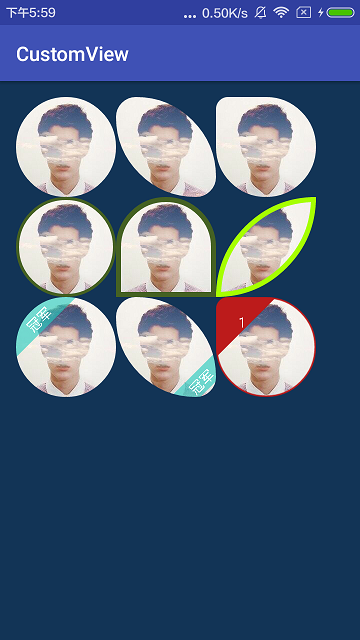
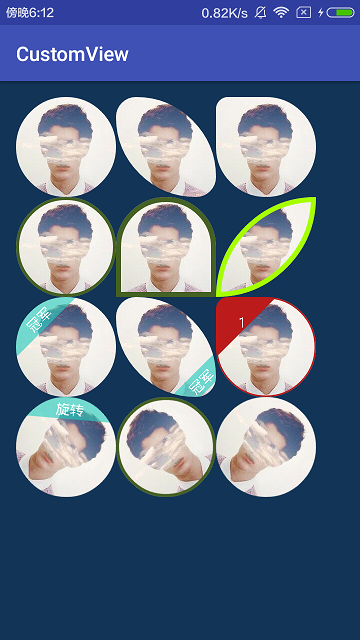
add RotateView

diff --git a/app/src/main/java/com/ctao/customview/widget/RoundedImageView.java b/app/src/main/java/com/ctao/customview/widget/RoundedImageView.java
@@ -18,39 +18,38 @@ import com.ctao.customview.R;
 import com.ctao.customview.utils.BitmapUtils;
 import com.ctao.customview.utils.PathFactory;
 
-/**
- * Created by A Miracle on 2016/9/29.
- */
-public class CustomImageView extends ImageView {
+public class RoundedImageView extends ImageView {
 
-	protected static final String TAG = CustomImageView.class.getSimpleName();
+	protected static final String TAG = RoundedImageView.class.getSimpleName();
 
+	protected PathFactory mPathFactory;
+	
 	private float[] mRadius; // [LeftTop, RightTop, RightBottom, LeftBottom]
 	private Paint mBitmapPaint;
-	
-	protected PathFactory mPathFactory;
 	private Path mPath;
+
+	private RectF mRect;
 	
-	public CustomImageView(Context context) {
+	public RoundedImageView(Context context) {
 		this(context, null);
 	}
 
-	public CustomImageView(Context context, AttributeSet attrs) {
+	public RoundedImageView(Context context, AttributeSet attrs) {
 		this(context, attrs, 0);
 	}
 	
-	public CustomImageView(Context context, AttributeSet attrs, int defStyleAttr) {
+	public RoundedImageView(Context context, AttributeSet attrs, int defStyleAttr) {
 		super(context, attrs, defStyleAttr);
 		init(context, attrs);
 	}
 
 	private void init(Context context, AttributeSet attrs) {
-		TypedArray ta = context.obtainStyledAttributes(attrs, R.styleable.CustomImageView);
-		float radius = ta.getDimension(R.styleable.CustomImageView_roundRadius, 0);
-		float radiusLeftTop = ta.getDimension(R.styleable.CustomImageView_roundRadiusLeftTop, 0);
-		float radiusRightTop = ta.getDimension(R.styleable.CustomImageView_roundRadiusRightTop, 0);
-		float radiusRightBottom = ta.getDimension(R.styleable.CustomImageView_roundRadiusRightBottom, 0);
-		float radiusLeftBottom = ta.getDimension(R.styleable.CustomImageView_roundRadiusLeftBottom, 0);
+		TypedArray ta = context.obtainStyledAttributes(attrs, R.styleable.RoundedImageView);
+		float radius = ta.getDimension(R.styleable.RoundedImageView_roundRadius, 0);
+		float radiusLeftTop = ta.getDimension(R.styleable.RoundedImageView_roundRadiusLeftTop, 0);
+		float radiusRightTop = ta.getDimension(R.styleable.RoundedImageView_roundRadiusRightTop, 0);
+		float radiusRightBottom = ta.getDimension(R.styleable.RoundedImageView_roundRadiusRightBottom, 0);
+		float radiusLeftBottom = ta.getDimension(R.styleable.RoundedImageView_roundRadiusLeftBottom, 0);
 		ta.recycle();
 
 		if (radius != 0) {
@@ -79,50 +78,40 @@ public class CustomImageView extends ImageView {
 		invalidate();
 	}
 	
-	public Paint getBitmapPaint() {
-		return mBitmapPaint;
-	}
-
 	@Override
 	protected void onDraw(Canvas canvas) {
 		if (mRadius == null) {
 			super.onDraw(canvas);
 		}else{
-			drawToCanvas(canvas);
+			RectF rect = getRectF();
+			if(mPath == null){
+				mPath = new Path();
+			}
+			mPath.reset();
+			mPathFactory.planRoundPath(mRadius, rect, mPath, 0);
+			drawRounded(canvas, rect, mPath);
 		}
 	}
-
-	protected void drawToCanvas(Canvas canvas) {
+	
+	private void drawRounded(Canvas canvas, RectF rect, Path path) {
 		if (getDrawable() == null) {
 			return;
 		}
-		
-		if(mPath == null){
-			mPath = new Path();
-		}
 
-		RectF rect = getRectF();
-		setupBitmapPaint();
+		setupRoundePaint();
+		
 		if(mRadius == null){
 			canvas.drawPaint(mBitmapPaint);
 		}else{
 			if (mRadius[0] == mRadius[1] && mRadius[0] == mRadius[2] && mRadius[0] == mRadius[3]) {
 				canvas.drawRoundRect(rect, mRadius[0], mRadius[0], mBitmapPaint);
 			}else{
-				mPath.reset();
-				mPathFactory.planRoundPath(mRadius, rect, mPath, 0);
-				canvas.drawPath(mPath, mBitmapPaint);
+				canvas.drawPath(path, mBitmapPaint);
 			}
 		}
 	}
 	
-	protected RectF getRectF(){
-		RectF rect = new RectF(getPaddingLeft(), getPaddingTop(), getRight() - getLeft() - getPaddingRight(),
-				getBottom() - getTop() - getPaddingBottom());
-		return rect;
-	}
-
-	protected void setupBitmapPaint() {
+	private void setupRoundePaint() {
 		if (getDrawable() == null) {
 			return;
 		}
@@ -150,6 +139,14 @@ public class CustomImageView extends ImageView {
 		}
         
 		mBitmapPaint.setShader(bitmapShader);
+	}
+	
+	protected RectF getRectF(){
+		if(mRect == null){
+			mRect = new RectF(getPaddingLeft(), getPaddingTop(), getRight() - getLeft() - getPaddingRight(),
+					getBottom() - getTop() - getPaddingBottom());
+		}
+		return mRect;
 	}
 	
 	protected Bitmap getBitmapFromDrawable() {

diff --git a/app/src/main/java/com/ctao/customview/widget/BorderImageView.java b/app/src/main/java/com/ctao/customview/widget/BorderImageView.java
@@ -4,22 +4,20 @@ import com.ctao.customview.R;
 
 import android.content.Context;
 import android.content.res.TypedArray;
+import android.graphics.Bitmap;
 import android.graphics.Canvas;
 import android.graphics.Paint;
 import android.graphics.Path;
 import android.graphics.RectF;
 import android.util.AttributeSet;
 
-/**
- * Created by A Miracle on 2016/9/29.
- */
-public class BorderImageView extends CustomImageView {
+public class BorderImageView extends RoundedImageView {
 	
 	private int mBorderColor = -5832960;
 	private float mBorderSize = 3;
 	private Paint mBorderPaint;
-	private Path mPath;
 	private boolean mIsSetupBorderSize;
+	private Path mBorderPath;
 	
 	public BorderImageView(Context context) {
 		this(context, null);
@@ -73,40 +71,15 @@ public class BorderImageView extends CustomImageView {
 
 	@Override
 	protected void onDraw(Canvas canvas) {
-		if(mBorderSize == 0){
-			super.onDraw(canvas);
-		}else{
-			drawToCanvas(canvas);
+		if(mBorderSize != 0){
+			if(getRadius() == null){
+				setRadius(new float[] { 0f, 0f, 0f, 0f }); //为null, mPathFactory.planRoundPath直接return;
+			}
 		}
+		super.onDraw(canvas);
 	}
 
-	@Override
-	protected void drawToCanvas(Canvas canvas) {
-		if (getDrawable() == null) {
-			return;
-		}
-		
-		if(mPath == null){
-			mPath = new Path();
-		}
-
-		RectF rect = getRectF();
-		mPath.reset();
-		if(getRadius() == null){
-			setRadius(new float[] { 0f, 0f, 0f, 0f }); //为null, mPathFactory.planRoundPath直接return;
-		}
-		mPathFactory.planRoundPath(getRadius(), rect, mPath, mBorderSize / 2); //规划Path
-		setupBitmapPaint();
-		canvas.drawPath(mPath, getBitmapPaint());
-		
-		//draw border
-		if(mBorderSize > 0){
-			setupBorderPaint();
-			canvas.drawPath(mPath, mBorderPaint);
-		}
-	}
-	
-	protected void setupBorderPaint(){
+	private void setupBorderPaint(){
 		if(mBorderPaint == null){
 			mBorderPaint = new Paint(Paint.ANTI_ALIAS_FLAG);
 			mBorderPaint.setDither(false);
@@ -114,5 +87,40 @@ public class BorderImageView extends CustomImageView {
 		mBorderPaint.setColor(mBorderColor);
 		mBorderPaint.setStrokeWidth(mBorderSize);
 		mBorderPaint.setStyle(Paint.Style.STROKE);
+	}
+	
+	@Override
+	protected Bitmap getBitmapFromDrawable() {
+		Bitmap bitmap = super.getBitmapFromDrawable();
+		if (!isSetupBorderSize()) {
+			return bitmap;
+		}
+
+		Bitmap tempBitmap = Bitmap.createBitmap(bitmap.getWidth(), bitmap.getHeight(), Bitmap.Config.ARGB_8888);
+		Canvas canvas = new Canvas(tempBitmap);
+		canvas.drawBitmap(bitmap, 0, 0, null);
+
+		// add border
+		addBorder(canvas);
+
+		return tempBitmap;
+	}
+
+	private void addBorder(Canvas canvas) {
+		RectF rect = getRectF();
+		if (mBorderPath == null) {
+			mBorderPath = new Path();
+		}
+		mBorderPath.reset();
+		if (getRadius() == null) {
+			setRadius(new float[] { 0f, 0f, 0f, 0f }); // 为null, mPathFactory.planRoundPath直接return;
+		}
+		mPathFactory.planRoundPath(getRadius(), rect, mBorderPath, mBorderSize / 2); // 规划Path
+
+		// draw border
+		if (mBorderSize > 0) {
+			setupBorderPaint();
+			canvas.drawPath(mBorderPath, mBorderPaint);
+		}
 	}
 }

diff --git a/app/src/main/java/com/ctao/customview/widget/RotateView.java b/app/src/main/java/com/ctao/customview/widget/RotateView.java
@@ -1,0 +1,82 @@
+package com.ctao.customview.widget;
+
+import com.ctao.customview.R;
+import android.annotation.SuppressLint;
+import android.content.Context;
+import android.content.res.TypedArray;
+import android.graphics.Bitmap;
+import android.graphics.Canvas;
+import android.util.AttributeSet;
+
+public class RotateView extends TagImageView {
+	public final static int CLOCKWISE = 1;
+	public final static int COUNTERCLOCKWISE = -1;
+	private int mDegree; //角度
+	private int mRate; //速率
+	private int mDirection = CLOCKWISE; //方向
+	private int isNotChange;
+	private Bitmap mTempBitmap;
+
+	public RotateView(Context context) {
+		this(context, null);
+	}
+
+	public RotateView(Context context, AttributeSet attrs) {
+		this(context, attrs, 0);
+	}
+
+	public RotateView(Context context, AttributeSet attrs, int defStyleAttr) {
+		super(context, attrs, defStyleAttr);
+		init(context, attrs);
+	}
+	
+	private void init(Context context, AttributeSet attrs) {
+		TypedArray ta = context.obtainStyledAttributes(attrs, R.styleable.RotateView);
+		mDegree = ta.getInteger(R.styleable.RotateView_rotateDegree, 0);
+		mRate = ta.getInteger(R.styleable.RotateView_rotateRate, 0);
+		mDirection = ta.getInteger(R.styleable.RotateView_rotateDirection, CLOCKWISE);
+		ta.recycle();
+	}
+	
+	@SuppressLint("DrawAllocation")
+	@Override
+	protected void onDraw(Canvas canvas) {
+		if(mRate == 0 && mDegree == 0){
+			super.onDraw(canvas);
+		}else if(mRate == 0){
+			canvas.save();
+			canvas.rotate(mDegree * mDirection, getMeasuredWidth()/2, getMeasuredHeight()/2);
+			super.onDraw(canvas);
+			canvas.restore();
+		}else{
+			long startTime = System.currentTimeMillis();
+			
+			canvas.save();
+			canvas.rotate(mDegree * mDirection, getMeasuredWidth()/2, getMeasuredHeight()/2);
+			if(isNotChange-- > 0){
+				if(mTempBitmap != null){
+					canvas.drawBitmap(mTempBitmap, 0, 0, null);
+				}
+			}else{
+				mTempBitmap = Bitmap.createBitmap(getWidth(), getHeight(), Bitmap.Config.ARGB_8888);
+				Canvas tmpCanvas = new Canvas(mTempBitmap);
+				super.onDraw(tmpCanvas);
+				
+				canvas.drawBitmap(mTempBitmap, 0, 0, null);
+			}
+			canvas.restore();
+			mDegree += mRate;
+			
+			long stopTime = System.currentTimeMillis();
+			long runTime = stopTime - startTime;
+			
+			// 16毫秒执行一次
+			invalidateDelayed(Math.abs(runTime - 16));
+		}
+	}
+	
+	private void invalidateDelayed(long delayMilliseconds) {
+		isNotChange = 1;
+		postInvalidateDelayed(delayMilliseconds);
+	}
+}

diff --git a/app/src/main/java/com/ctao/customview/widget/TagImageView.java b/app/src/main/java/com/ctao/customview/widget/TagImageView.java
@@ -11,12 +11,8 @@ import android.text.TextUtils;
 import android.util.AttributeSet;
 
 import com.ctao.customview.R;
-import com.ctao.customview.utils.BitmapUtils;
 import com.ctao.customview.utils.DisplayUtils;
 
-/**
- * Created by A Miracle on 2016/9/29.
- */
 public class TagImageView extends BorderImageView {
 
 	private static final int LEFT_TOP = 0x00;
@@ -97,7 +93,7 @@ public class TagImageView extends BorderImageView {
 	// replace bitmap, add tag
 	@Override
 	protected Bitmap getBitmapFromDrawable() {
-		Bitmap bitmap = BitmapUtils.getBitmapFromDrawable(getDrawable());
+		Bitmap bitmap = super.getBitmapFromDrawable();
 		if (!isEnable) {
 			return bitmap;
 		}
@@ -201,7 +197,7 @@ public class TagImageView extends BorderImageView {
 		mTagTextPaint.setColor(mTagTextColor);
 	}
 
-	private static class Point {
+	private class Point {
 		float x;
 		float y;
 	}
